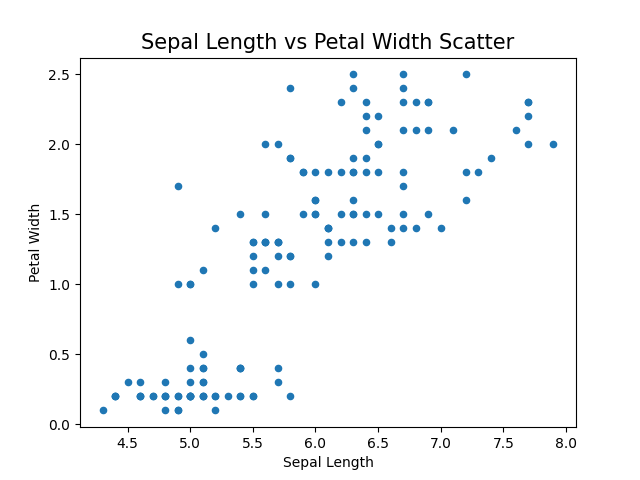
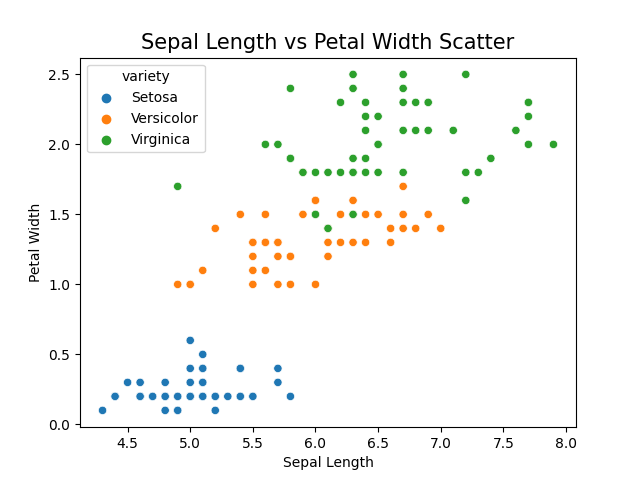
Changing of scatter plots to seaborn to add a hue/colour to each variety. List of unique variety names to summary.txt

diff --git a/Analysis.py b/Analysis.py
@@ -7,7 +7,7 @@ from pydoc import describe
 import numpy as np
 import pandas as pd
 import matplotlib.pyplot as plt
-
+import seaborn as sns
 #1. Summary text file
 df = pd.read_csv("iris.csv")
 lines = (df.describe())
@@ -27,6 +27,9 @@ lines7 = ['Summary of Variables','There are 5 variables in the Iris flower data 
 '', 'Petal Width','This is a measurement across the widest part of the petal']
 
 lines8 = (df.nunique())
+lines9 = df.drop_duplicates(subset ="variety",)
+
+
 
 with open('Summary.txt','w') as s:
     s.write("Description of the Data")
@@ -37,9 +40,12 @@ with open('Summary.txt','w') as s:
     s.write("\n")
     s.write(str(lines8))
     s.write(2*"\n")
-
-    s.write("First 5 rows of the Dataset")
+    s.write("Varieties of Species")
+    s.write("\n")
+    s.write(str(lines9))
     s.write(2*"\n")
+    s.write("First 5 rows of the Dataset")
+    s.write("\n")
     s.write(str(lines2))
     s.write(2*"\n")
     s.write("Number of Rows in the Dataset")
@@ -65,7 +71,9 @@ plt.hist(df['sepal.length'], bins=30)
 plt.title("Distribution of Sepal Length",fontsize = 15)
 plt.xlabel("Sepal Length in cm", fontsize = 10)
 plt.ylabel("Frequency of Species", fontsize = 10)
+#line 69 saves the histogram to a png file
 plt.savefig('sepal_length.png')
+#line 70 clears the plot figure, so that plots do not overlap on top of each other
 plt.clf()
 
 #Sepal Width Histogram
@@ -104,55 +112,58 @@ plt.clf()
 
 #3 Scatter Plots of Each variable pair
 #Sepal Length and Sepal Width
-df.plot(kind='scatter',x='sepal.length',y='sepal.width')
+a = sns.scatterplot(x="sepal.length", y="sepal.width", hue="variety", data=df)
 plt.title("Sepal Length vs Sepal Width Scatter",fontsize = 15)
 plt.xlabel("Sepal Length", fontsize = 10)
 plt.ylabel("Sepal Width", fontsize = 10)
 plt.savefig('slength vs swidth.png')
-plt.show()
+colors = {'Setosa':'red', 'Versicolor':'green', 'Virginica':'blue'}
+
+#plt.show()
 plt.clf()
 
 #Sepal Length and Petal Length
-df.plot(kind='scatter',x='sepal.length',y='petal.length')
+b = sns.scatterplot(x="sepal.length", y="petal.length", hue="variety", data=df)
 plt.title("Sepal Length vs Petal Length Scatter",fontsize = 15)
 plt.xlabel("Sepal Length", fontsize = 10)
 plt.ylabel("Petal Length", fontsize = 10)
 plt.savefig('slength vs plength.png')
-plt.show()
+#plt.show()
 plt.clf()
 
 #Petal Length and Petal Width
-df.plot(kind='scatter',x='petal.length',y='petal.width')
+c = sns.scatterplot(x="petal.length", y="petal.width", hue="variety", data=df)
 plt.title("Petal Length vs Petal Width Scatter",fontsize = 15)
 plt.xlabel("Petal Length", fontsize = 10)
 plt.ylabel("Petal Width", fontsize = 10)
 plt.savefig('plength vs pwidth.png')
-plt.show()
+#plt.show()
 plt.clf()
 
 #Sepal Width and Petal Width
-df.plot(kind='scatter',x='sepal.width',y='petal.width')
+d = sns.scatterplot(x="sepal.width", y="petal.width", hue="variety", data=df)
 plt.title("Sepal Width vs Petal Width Scatter",fontsize = 15)
 plt.xlabel("Sepal Width", fontsize = 10)
 plt.ylabel("Petal Width", fontsize = 10)
 plt.savefig('swidth vs pwidth.png')
-plt.show()
+#plt.show()
 plt.clf()
 
 #Sepal Length and Petal Width
-df.plot(kind='scatter',x='sepal.length',y='petal.width')
+e = sns.scatterplot(x="sepal.length", y="petal.width", hue="variety", data=df)
 plt.title("Sepal Length vs Petal Width Scatter",fontsize = 15)
 plt.xlabel("Sepal Length", fontsize = 10)
 plt.ylabel("Petal Width", fontsize = 10)
 plt.savefig('slength vs pwidth.png')
-plt.show()
+#plt.show()
 plt.clf()
 
 #Petal Length and Sepal Width
-df.plot(kind='scatter',x='petal.length',y='sepal.width')
+f = sns.scatterplot(x="petal.length", y="sepal.width", hue="variety", data=df)
 plt.title("Petal Length vs Sepal Width Scatter",fontsize = 15)
 plt.xlabel("Petal Length", fontsize = 10)
 plt.ylabel("Sepal Width", fontsize = 10)
 plt.savefig('plength vs swidth.png')
-plt.show()
+#plt.show()
 plt.clf()
+
